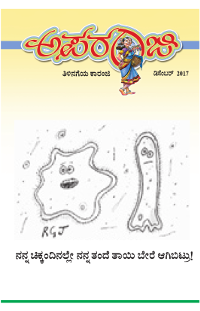
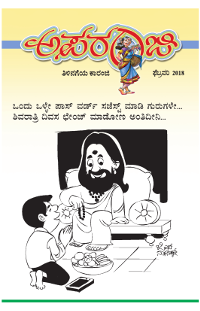
February issue updated

diff --git a/index.php b/index.php
@@ -85,7 +85,7 @@ session_start();
 			echo "		  </div>
 				</div>";
 				
-			echo "<div class=\"cover\"><a href=\"Volumes/".$currentyear."_".$currentmonth.".pdf#page=1\" target=\"_blank\"><img src=\"php/images/cover.png\" alt=\"".$month[$currentmonth-1]."\" title=\"".$month[$currentmonth-1]." ಸಂಚಿಕೆ\"/></a></div>";
+			echo "<div class=\"cover\"><a href=\"Volumes/".$currentyear."_".$currentmonth.".pdf#page=1\" target=\"_blank\"><img src=\"php/images/cover1.png\" alt=\"".$month[$currentmonth-1]."\" title=\"".$month[$currentmonth-1]." ಸಂಚಿಕೆ\"/></a></div>";
 		?>
 			
 		
